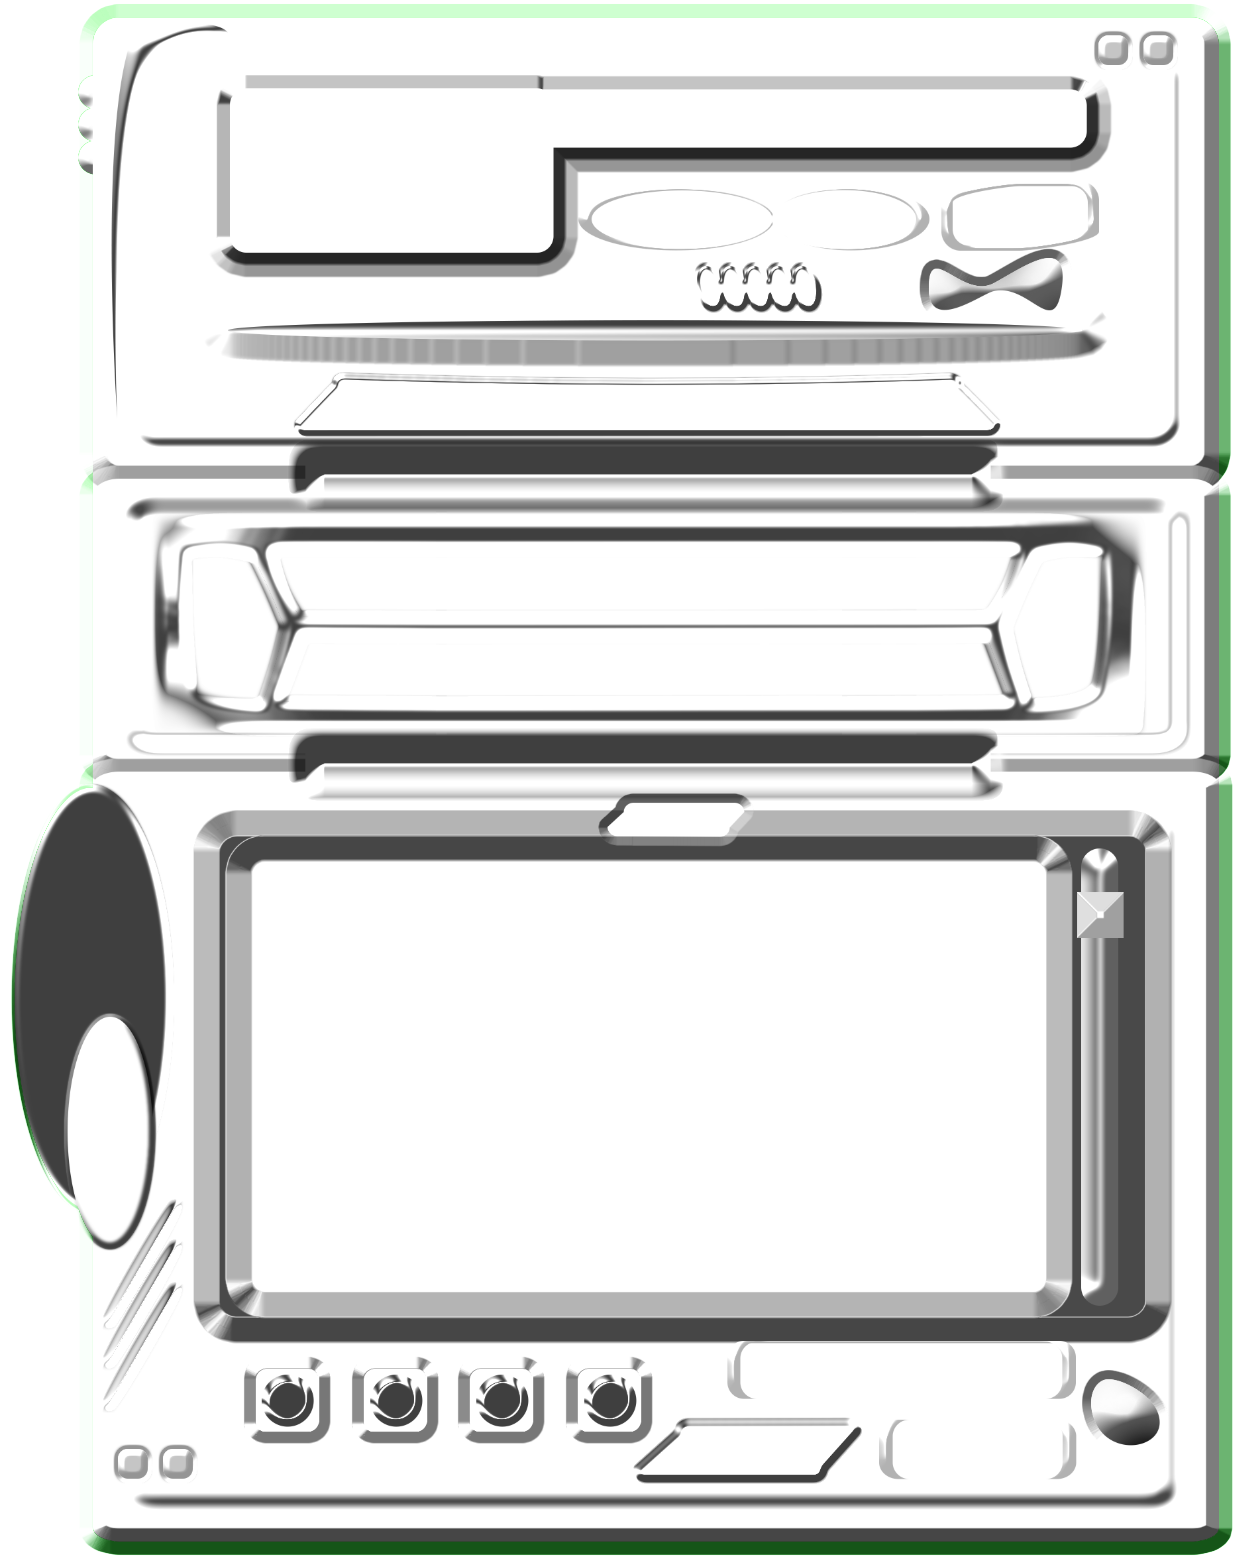
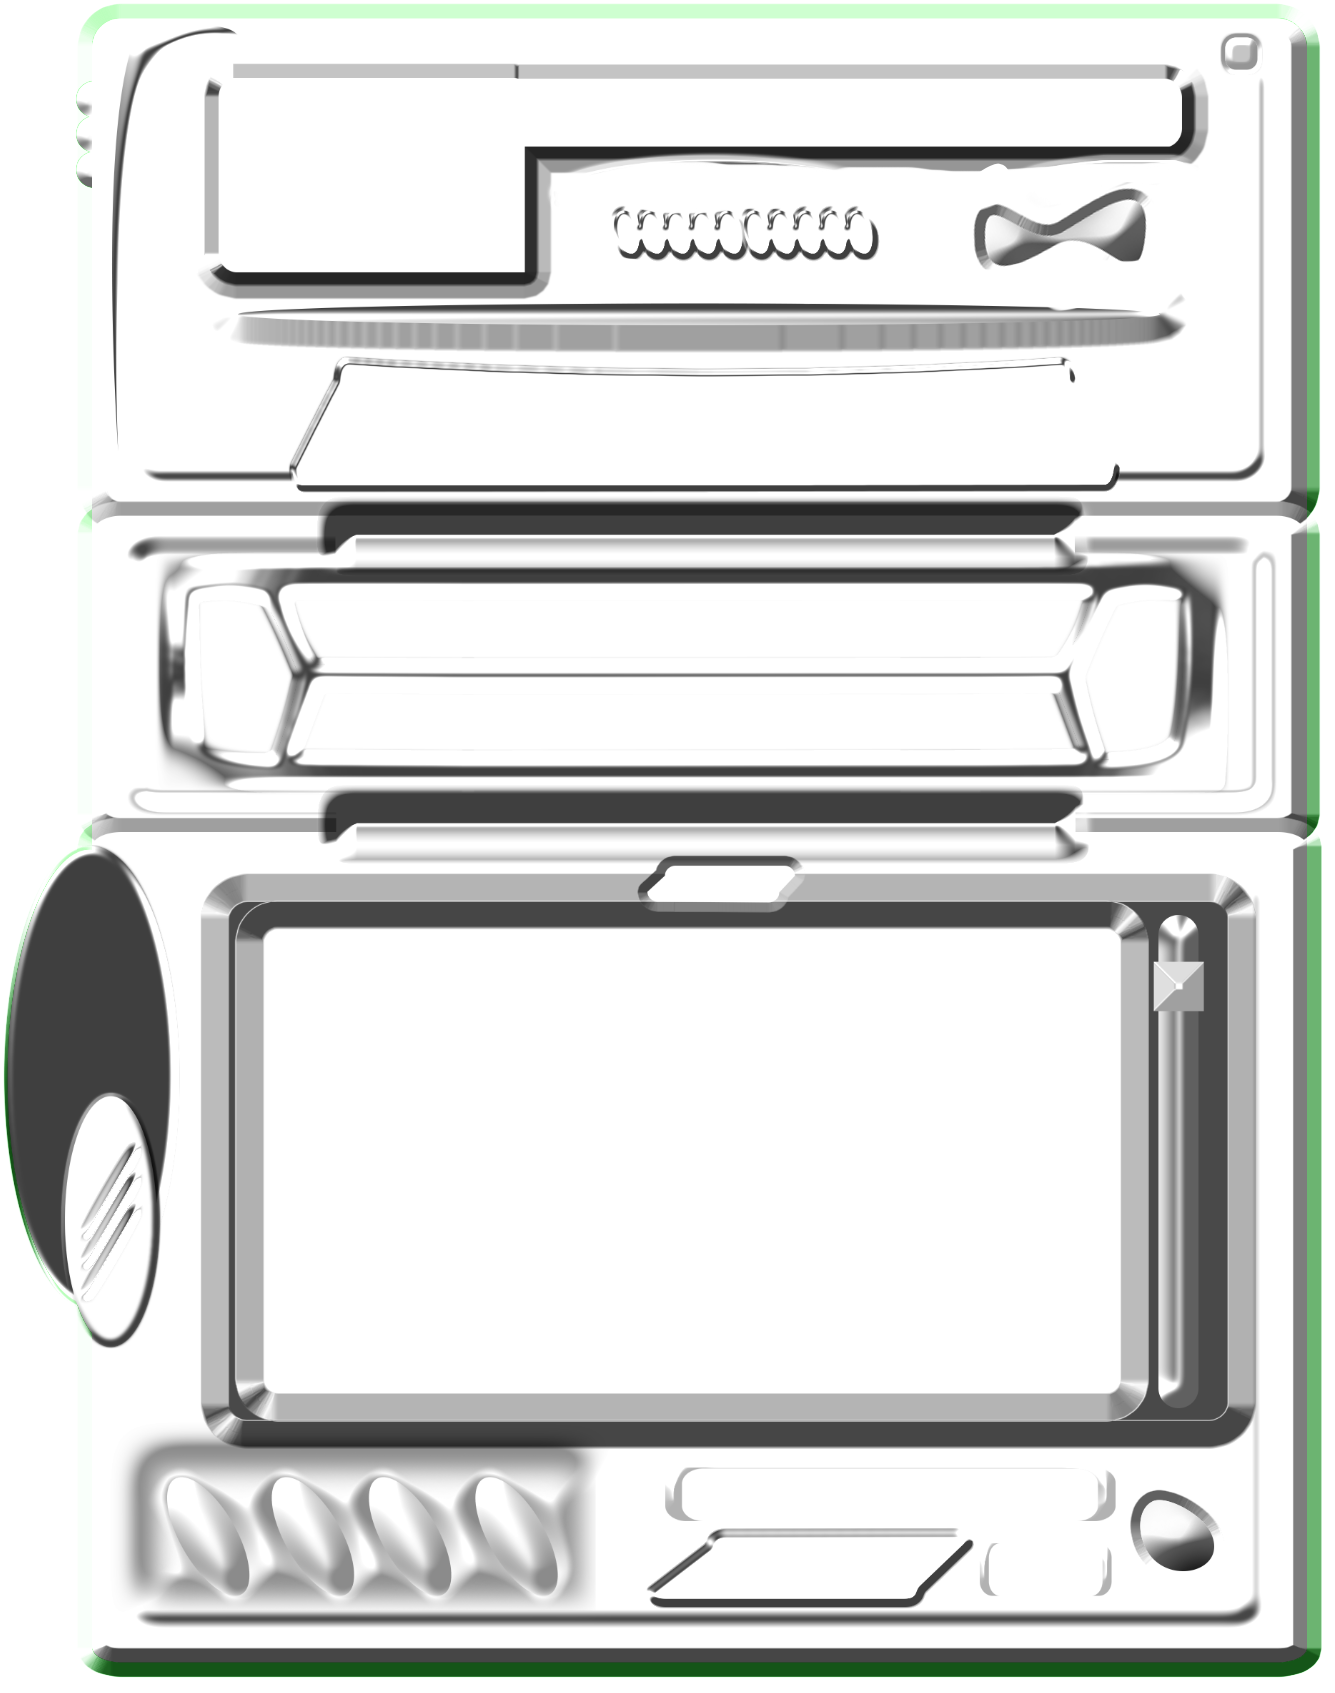
add new playlist

Changed region(s): [[0.0, 0.0, 1.0, 1.0], [0.0612, 0.0307, 0.1224, 0.2151], [0.0612, 0.0, 0.0918, 0.0307]]

diff --git a/style.css b/style.css
@@ -24,7 +24,7 @@ body
 	margin: 0px;
 }
 
-/*for mobile / portrait display*/
+/*bg lain pic and entry pic for mobile / portrait display*/
 @media (min-aspect-ratio: 1/16) {
 	body
 	{
@@ -38,7 +38,7 @@ body
 	}
 }
 
-/*for desktop / landscape display*/
+/*bg lain pic and entry pic for desktop / landscape display*/
 @media (min-aspect-ratio: 4/3) {
 	body
 	{
@@ -118,6 +118,7 @@ inactive window 6, 5
 	background-size: 100%;*/
 }
 
+/***************** mini windows /*****************/
 .mini-window
 {
 	position: absolute;
@@ -142,25 +143,14 @@ inactive window 6, 5
 	opacity: 0.2;*/
 }
 
-#music-player
-{
-	background-image: url("img/player-mockup.png");
-	background-repeat: no-repeat;
-	background-size: 100%;
-	width: 420px;
-	height: 522px;
-	top: 17%;
-	left: 20%;
-	z-index: 7;
-}
-
+/******* chat *******/
 #chat-window
 {
 	display: flex;
 	justify-content: center; 
 	align-items: center;
 	align-items: center;
-	width: 300px; height: 400px;
+	width: 316px; height: 428px; /*todo make smaller size for mobile 640x480 x0.66*/
 	top: 5%; right: 13%;
 	z-index: 5;
 }
@@ -171,14 +161,16 @@ inactive window 6, 5
 	position: absolute;
 	width: 250px;
 	height: 350px;
-	top: 10%;
+	top: 10%; bottom: 4%;
 }
+/******* chat *******/
 
+/******* terminallllllll *******/
 #terminal
 {
 	font-family: "Input-Mono", monospace; font-size: 13px; 
 	top: 10%; left: 7%;
-	width: 420px; height: 300px;
+	width: 493px; height: 369px; /*todo make smaller size for mobile 640x480 x0.77*/
 	z-index: 6;
 }
 
@@ -186,7 +178,7 @@ inactive window 6, 5
 {
 	font-family: "Input-Mono", monospace; font-size: 13px; 
 	position: absolute;
-	left: 3%; top: 12%; bottom: 3%;
+	left: 3%; top: 11%; bottom: 5%;
 	width: 94%; height: 80%;
 	background-color: black;
 	overflow-y: scroll;
@@ -200,15 +192,15 @@ inactive window 6, 5
 	font-family: "Input-Mono", monospace; font-size: 13px; 
 	position: absolute; 
 	width: 94%;
-	left: 3%; right: 3%; bottom: 2%;
+	left: 3%; right: 3%; bottom: 4%;
 	background-color: transparent; /*in case it gets occluded by input are*/
 }
 
 #input-bg /*fills in the transparent gap*/
 {
 	position: absolute; 
-	width: 94%; height: 21px;
-	left: 3%; right: 3%; bottom: 2%;
+	width: 94%; height: 30px;
+	left: 3%; right: 3%; bottom: 3%;
 	background-color: black;
 }
 
@@ -258,6 +250,8 @@ inactive window 6, 5
 #terminal-input:focus {
     outline: none !important;
 }
+/******* terminallllllll *******/
+
 
 .mini-window-close
 {
@@ -287,6 +281,52 @@ inactive window 6, 5
 	cursor: pointer;
 }
 
+/******* music player *******/
+#music-player
+{
+	background-image: url("img/player-mockup.png");
+	background-repeat: no-repeat;
+	background-size: 100%; background-color: transparent;
+	width: 500px;
+	height: 620px;
+	top: 17%;
+	left: 20%;
+	z-index: 7;
+}
+
+#playlist-container
+{
+	position: absolute;
+	color: whitesmoke;
+	left: 17%; right: 11%; bottom: 15%; top: 56%;
+	width: auto; height: auto;
+	background-color: lightgray;
+	opacity: 0.8;
+	overflow-y: auto; overflow-x: hidden;
+}
+
+#playlist-content {list-style-type: decimal; color: black;}
+
+li
+{
+	font-size: 15px;
+	padding: 4px;
+	cursor: pointer;
+	background-color: none;
+	transition: 0.07;
+}
+
+li:hover{
+	background-color: lavender;
+	box-shadow: 3px 5px 7px black;
+}
+
+/******* music player *******/
+
+/***************** mini windows /*****************/
+
+/***************** old music player *****************/
+
 #temp-toggle
 {
 	position: absolute;
@@ -299,7 +339,7 @@ inactive window 6, 5
 	cursor: pointer ;
 }
 
-#playlist-container
+#old-playlist-container
 {
 	position: absolute;
 	top: 0;
@@ -311,20 +351,10 @@ inactive window 6, 5
 	overflow: auto;
 }
 
-#playlist-content
+#old-playlist-content
 {
 	list-style-type: decimal;
 }
-
-li
-{
-	padding: 7px;
-	cursor: pointer;
-	background-color: none;
-	transition: 0.07;
-}
-
-li:hover{background-color: white;}
 
 #old-player-container
 {
@@ -356,3 +386,4 @@ li:hover{background-color: white;}
 	height: 10px;
 	background-color: violet;
 }
+/***************** old music player *****************/

diff --git a/main.js b/main.js
@@ -87,7 +87,6 @@ let isPlaying = false
 let progressTimer = null
 
 loadTrack();
-fillPlaylist();
 progressBar.addEventListener("click", setProgress);
 
 ////////////// entry page //////////////
@@ -280,7 +279,7 @@ function checkInput(e)
 //////temppppp switch  view
 let tempToggle = document.getElementById("temp-toggle")
 let oldPlayerContainer = document.getElementById("old-player-container")
-let playlistEl = document.getElementById("playlist-container")
+let playlistEl = document.getElementById("old-playlist-container")
 let playlistToggle = document.getElementById("pl-toggle")
 
 let showingOldUI = false
@@ -569,9 +568,14 @@ function setProgress(el)
 	console.log("set progress: el.offsetX  = " + el.offsetX + ", curTrack.duration = " + curTrack.duration + ", max width = " + progressBar.offsetWidth + ", jumpTo = " + jumpTo)
 }
 
-function fillPlaylist()
+let oldPlaylist = document.getElementById("old-playlist-content")
+let newPlaylist = document.getElementById("playlist-content")
+
+fillPlaylist(oldPlaylist);
+fillPlaylist(newPlaylist);
+
+function fillPlaylist(playlist)
 {
-	let playlist =  document.getElementById("playlist-content")
 	for (let i = 0; i < trackList.length; i++)
 	{
 		let li = document.createElement("li")

diff --git a/index.html b/index.html
@@ -18,7 +18,11 @@
 		<div class="mini-window" id="music-player">
 			<div class="mini-window-draggable" id="music-player-drag"></div>
 			<div class="mini-window-close"></div>
-			
+
+			<div id="playlist-container">
+				<ul id="playlist-content">
+				</ul>
+			</div>
 		</div>
 
 		<div class="mini-window" id="terminal">
@@ -74,8 +78,8 @@
 		</div>
 
 
-		<div id="playlist-container">
-			<ul id="playlist-content">
+		<div id="old-playlist-container">
+			<ul id="old-playlist-content">
 			</ul>
 		</div>
 
